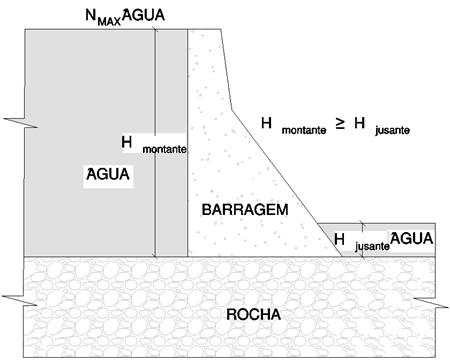
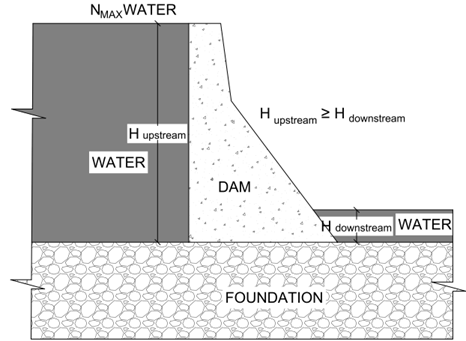
Add files via upload
Update images and code

diff --git a/PyADam_01DB.py b/PyADam_01DB.py
@@ -40,7 +40,7 @@ RsgGroupBox(name='GroupBox_7', p='TabItem_2', text='Physical Data of the Foundat
 RsgTextField(p='GroupBox_7', fieldType='String', ncols=33, labelText='Name of Foundation Material', keyword='material2', default='Rocha Granitica')
 RsgTextField(p='GroupBox_7', fieldType='Float', ncols=15, labelText='Rock Material Density (kN/m3)', keyword='Rho_rocha', default='2700')
 RsgTextField(p='GroupBox_7', fieldType='Float', ncols=20, labelText='Modulus of Elasticity of the Foundation Material (kN/m2)', keyword='Es_rocha', default='40000000000')
-RsgTextField(p='GroupBox_7', fieldType='Float', ncols=12, labelText='Poissons Tation', keyword='nu_rocha', default='0.2')
+RsgTextField(p='GroupBox_7', fieldType='Float', ncols=12, labelText='Poissons Ratio', keyword='nu_rocha', default='0.2')
 RsgTextField(p='GroupBox_7', fieldType='Float', ncols=12, labelText='Foundation Material Permeability (m/s)', keyword='Ks_rocha', default='0.000000000001')
 RsgTextField(p='GroupBox_7', fieldType='Float', ncols=5, labelText='Void Index', keyword='iv_rocha', default='0.02')
 
@@ -50,7 +50,7 @@ RsgGroupBox(name='GroupBox_12', p='TabItem_3', text='Global Coordinate System', 
 RsgIcon(p='GroupBox_12', fileName=r'galeria.png')
 RsgLabel(p='GroupBox_12', text='Indicate the location of Point P0 in the global coordinate system, for numerical analysis.', useBoldFont=False)
 RsgTable(p='GroupBox_12', numRows=1, columnData=[('X', 'Float', 40), ('Y', 'Float', 40)], showRowNumbers=True, showGrids=True, keyword='Origem', popupFlags='')
-RsgGroupBox(name='GroupBox_8', p='TabItem_3', text='Choosing the type of Solver', layout='LAYOUT_FILL_X|LAYOUT_FILL_Y')
+RsgGroupBox(name='GroupBox_8', p='TabItem_3', text='Choosing the Solver type', layout='LAYOUT_FILL_X|LAYOUT_FILL_Y')
 RsgLabel(p='GroupBox_8', text='The type of Solver will imply the type of results to be obtained.', useBoldFont=True)
 RsgList(name='List_1', p='GroupBox_8', nvis=2, keyword='Solucionador', default='', layout='LAYOUT_FILL_X')
 RsgListItem(p='List_1', text='Structural Mechanics - Uncoupled (UN)')
@@ -58,7 +58,7 @@ RsgListItem(p='List_1', text='Hydromechanics - Coupled (CO)')
 
 # Load Tab Interface
 RsgTabItem(name='TabItem_4', p='TabBook_1', text='Load')
-RsgGroupBox(name='GroupBox_10', p='TabItem_4', text='Loading due to Water Accumulation', layout='LAYOUT_FILL_X|LAYOUT_FILL_Y')
+RsgGroupBox(name='GroupBox_10', p='TabItem_4', text='Loading due to Reservoir', layout='LAYOUT_FILL_X|LAYOUT_FILL_Y')
 RsgSlider(p='GroupBox_10', text='Upstream Water Height (%)', minLabelText='Minimum level', maxLabelText='Maximum level', valueType=FLOAT, minValue=0, maxValue=100, decimalPlaces=2, showValue=True, width=400, keyword='NA_montante', default=100)
 RsgIcon(p='GroupBox_10', fileName=r'dam_load.png')
 RsgTextField(p='GroupBox_10', fieldType='Float', ncols=12, labelText='Downstream Water Height (m)', keyword='NA_jusante', default='0.0')
